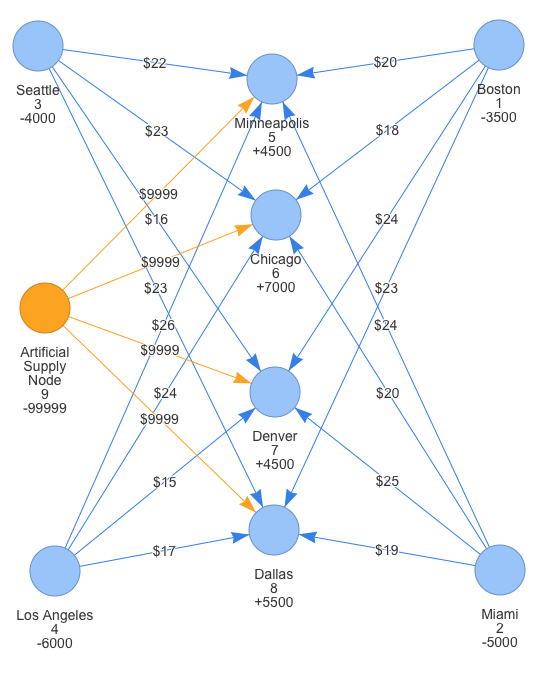
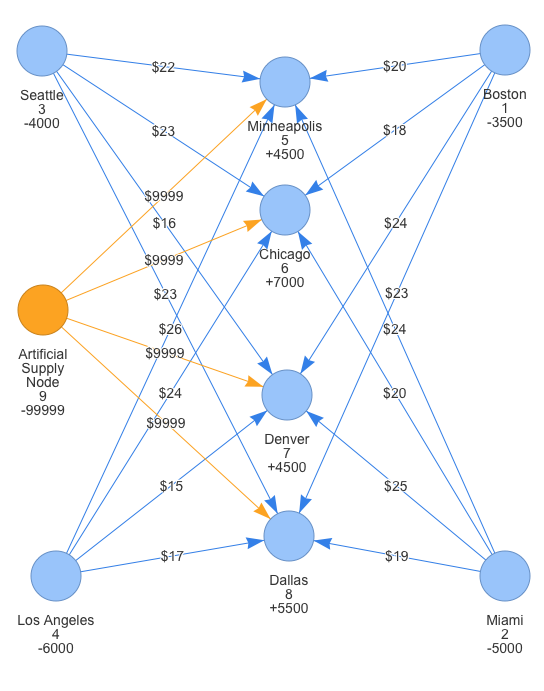
improving image quality

diff --git a/content/post/2018-06-19-source-route-selection-with-linear-programming.html b/content/post/2018-06-19-source-route-selection-with-linear-programming.html
@@ -162,7 +162,7 @@ Production
 <p>We need to decide which 3 cities should be selected for the factories as well as which routes should be used from each of them (&amp; the number of units to ship) in order to minimize the cost of shipping while meeting as much of the demand as possible.</p>
 <p>The information in the above table can be visualized as a network plot. The production capacity values of the supply nodes are represented by negative values while the demand values of the demand cities are represented by positive values.</p>
 <div class="figure">
-<img src="/post/2018-06-19-source-route-selection-with-linear-programming_files/network_plot.png" />
+<img src="/post/2018-06-19-source-route-selection-with-linear-programming_files/network_plot1.png" />
 
 </div>
 <p>Note that we’re not just trying to distribute our supply at the cheapest cost possible but rather trying to meet as much of the demand as possible with the least shipping costs.</p>
@@ -291,7 +291,7 @@ m.update() # Updating the model            </code></pre>
 ##   RHS range        [3e+00, 1e+05]
 ## Found heuristic solution: objective 2.149785e+08
 ## Presolve removed 5 rows and 0 columns
-## Presolve time: 0.00s
+## Presolve time: 0.01s
 ## Presolved: 9 rows, 24 columns, 44 nonzeros
 ## Variable types: 0 continuous, 24 integer (4 binary)
 ## 
@@ -302,7 +302,7 @@ m.update() # Updating the model            </code></pre>
 ## 
 ## *    0     0               0    6.525850e+07 6.5258e+07  0.00%     -    0s
 ## 
-## Explored 0 nodes (15 simplex iterations) in 0.00 seconds
+## Explored 0 nodes (15 simplex iterations) in 0.03 seconds
 ## Thread count was 8 (of 8 available processors)
 ## 
 ## Solution count 2: 6.52585e+07 2.14978e+08 
@@ -326,7 +326,7 @@ m.update() # Updating the model            </code></pre>
 <p>The above decision variable values allow us to meet as much of the demand as possible (15000 units) at the lowest cost of shipping: <span class="math inline">\(20*5000 + 16*4000 + 15*500 + 17*5500=\$170,020\)</span>.</p>
 <p>The network given by the solution can be seen in the network plot below:</p>
 <div class="figure">
-<img src="/post/2018-06-19-source-route-selection-with-linear-programming_files/network_plot5.png" />
+<img src="/post/2018-06-19-source-route-selection-with-linear-programming_files/network_plot3.png" />
 
 </div>
 <p>I hope you enjoyed this post. Please leave your comments below.</p>
